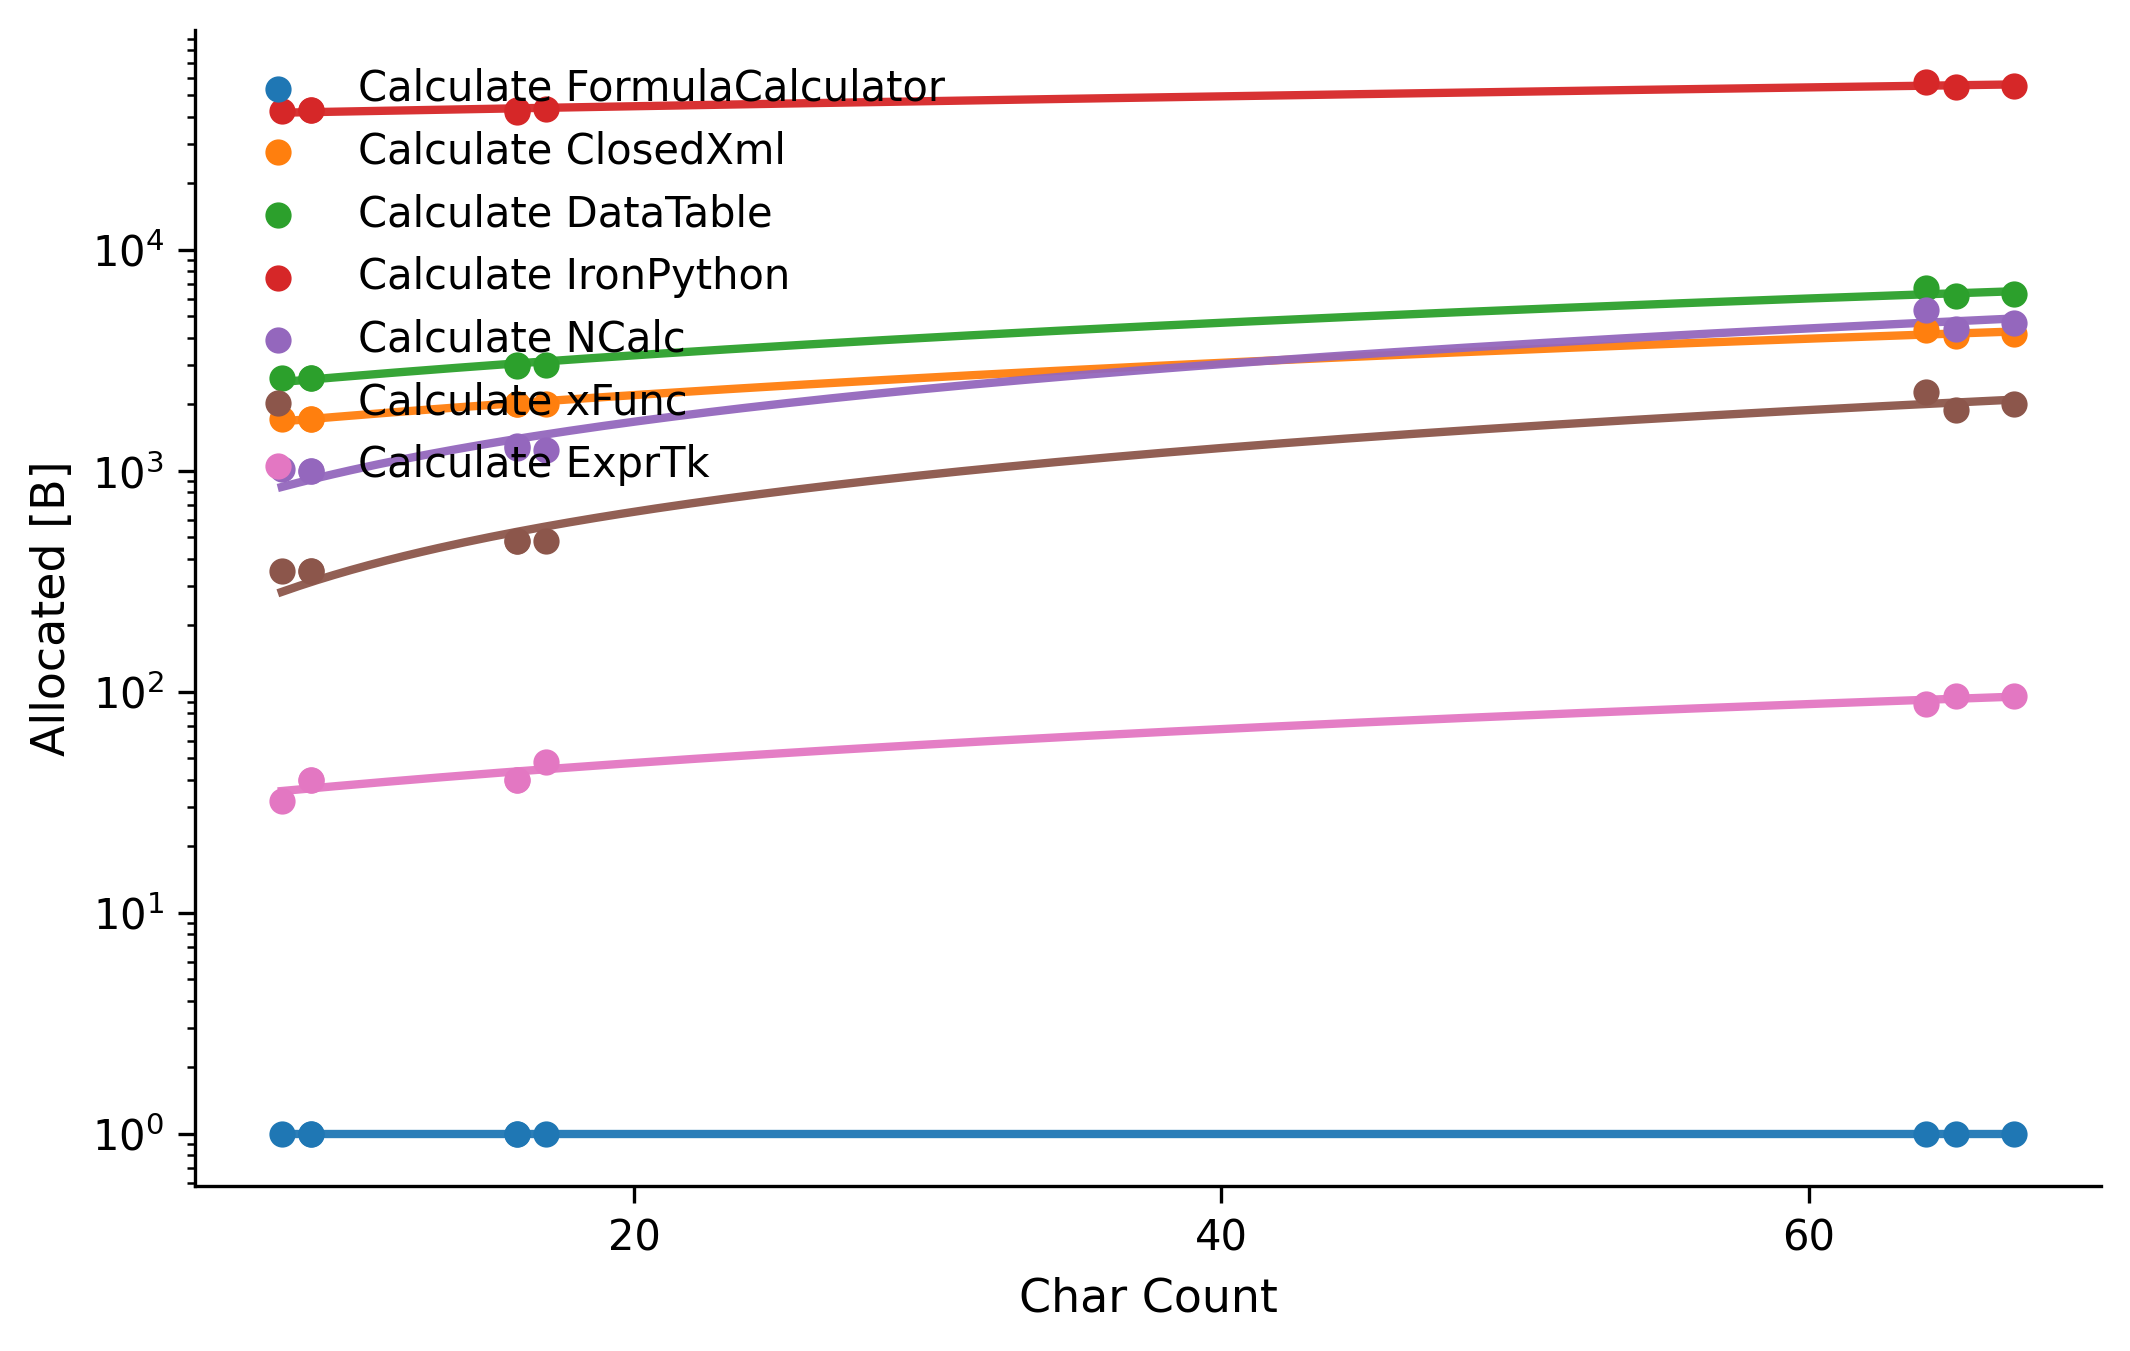
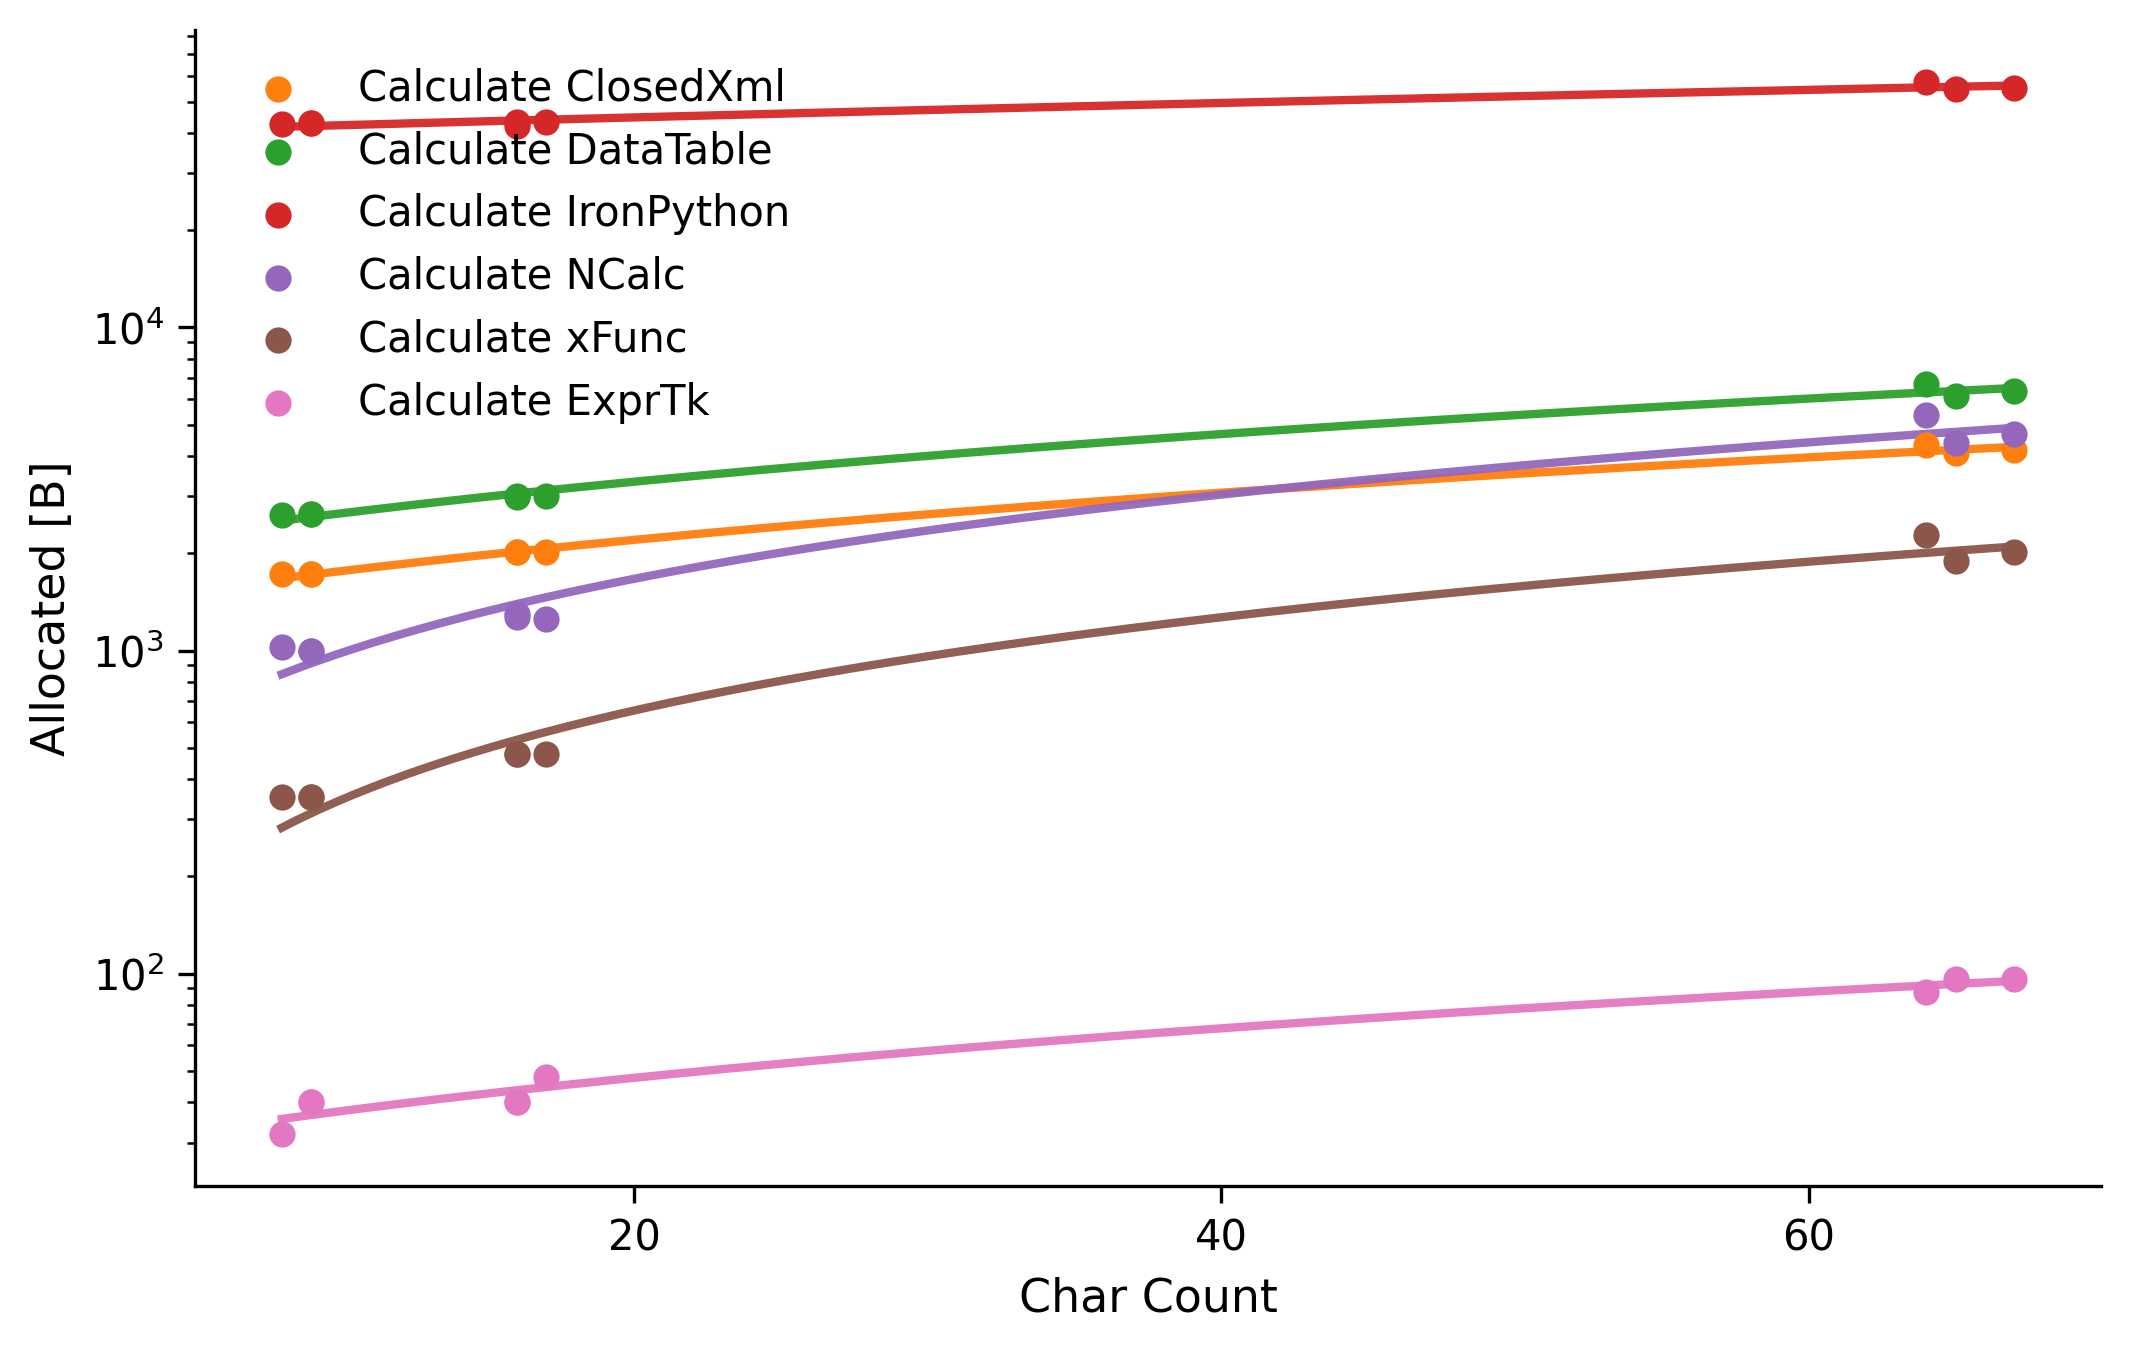
Refactor log scale handling in benchmark result graph maker to filter non-positive values

diff --git a/PythonTools/BenchmarkResultGraphMaker/benchmark_result_graph_maker.py b/PythonTools/BenchmarkResultGraphMaker/benchmark_result_graph_maker.py
@@ -8,8 +8,6 @@ import numpy as np
 from matplotlib.ticker import MaxNLocator
 from pathlib import Path
 
-LOG_EPS = 1 + 1e-12
-
 
 def parse_ns_series(series: pd.Series) -> pd.Series:
     """Convert BenchmarkDotNet time strings like '1,227.47 ns' to float."""
@@ -100,9 +98,14 @@ def plot_metric(
         if len(x) == 0:
             continue
 
-        # For log scale, ensure the fitted line is also plottable by replacing non-positive values.
+        # If using log scale, filter out non-positive values since they cannot be plotted.
         if use_log_y:
-            y = np.where(y <= 0, LOG_EPS, y)
+            positive_mask = y > 0
+            x = x[positive_mask]
+            y = y[positive_mask]
+
+            if len(x) == 0:
+                continue
 
         # Measured points.
         ax.scatter(
@@ -122,9 +125,11 @@ def plot_metric(
             x_fit = np.linspace(x.min(), x.max(), 200)
             y_fit = poly(x_fit)
 
-            # For log scale, ensure the fitted line is also plottable by replacing non-positive values.
+            # If using log scale, filter out non-positive values since they cannot be plotted.
             if use_log_y:
-                y_fit = np.where(y_fit <= 0, LOG_EPS, y_fit)
+                valid_fit_mask = y_fit > 0
+                x_fit = x_fit[valid_fit_mask]
+                y_fit = y_fit[valid_fit_mask]
 
             if len(x_fit) > 0:
                 ax.plot(
